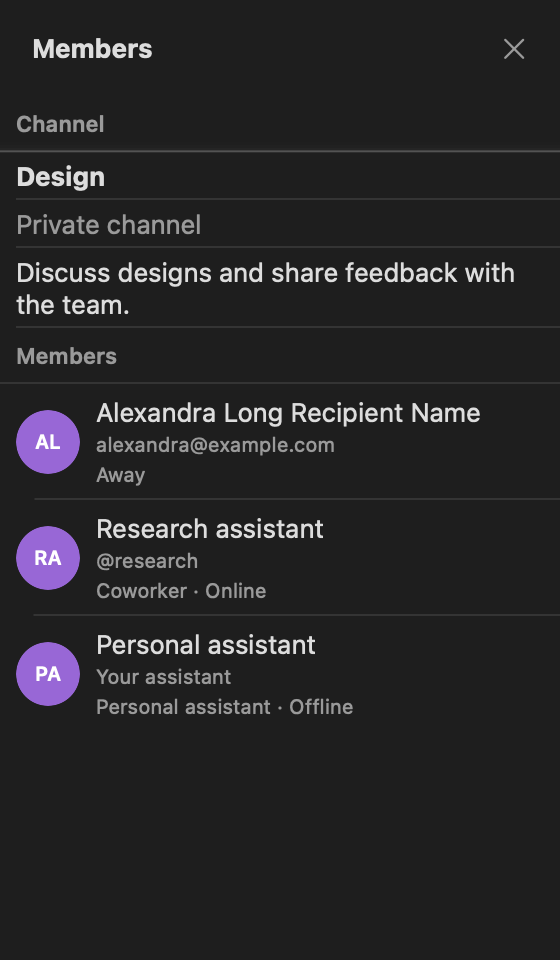
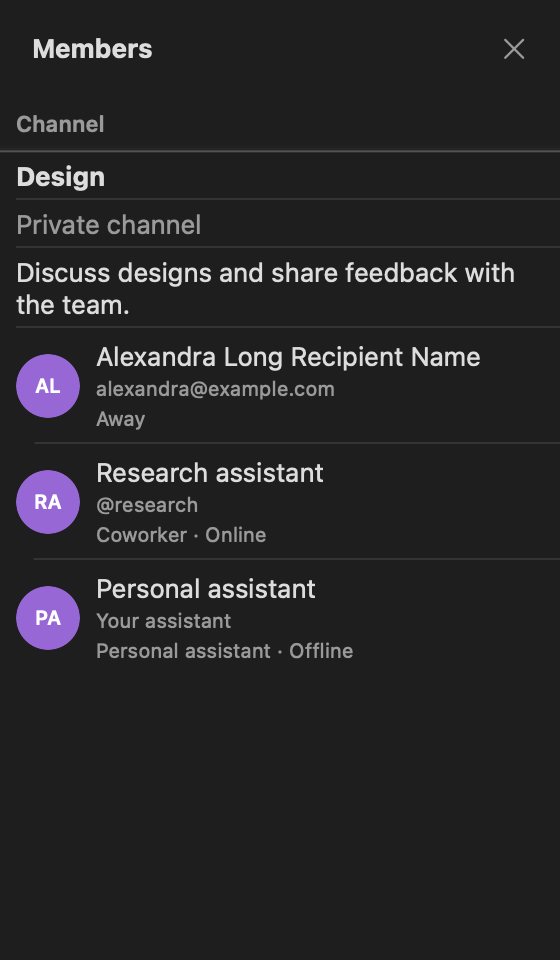
fix(apple): polish room members inspector header

Changed region(s): [[0.0304, 0.3438, 0.85, 0.75], [0.5161, 0.7188, 0.6375, 0.75]]

diff --git a/apps/apple/Sokosumi/Chat/Details/RoomDetailsView.swift b/apps/apple/Sokosumi/Chat/Details/RoomDetailsView.swift
@@ -19,7 +19,7 @@ struct RoomDetailsView: View {
         Text("Members").font(.headline)
         Spacer()
         Button("Close", systemImage: "xmark", action: close)
-          .labelStyle(.iconOnly).buttonStyle(.borderless)
+          .labelStyle(.iconOnly).buttonStyle(.borderless).help("Close members")
       }.padding()
       List {
         if room.kind == .channel {
@@ -31,7 +31,7 @@ struct RoomDetailsView: View {
             }
           }
         }
-        Section("Members") {
+        Section {
           let members = RoomRoster.members(in: room)
           if members.isEmpty {
             Text("No members.").foregroundStyle(.secondary)
